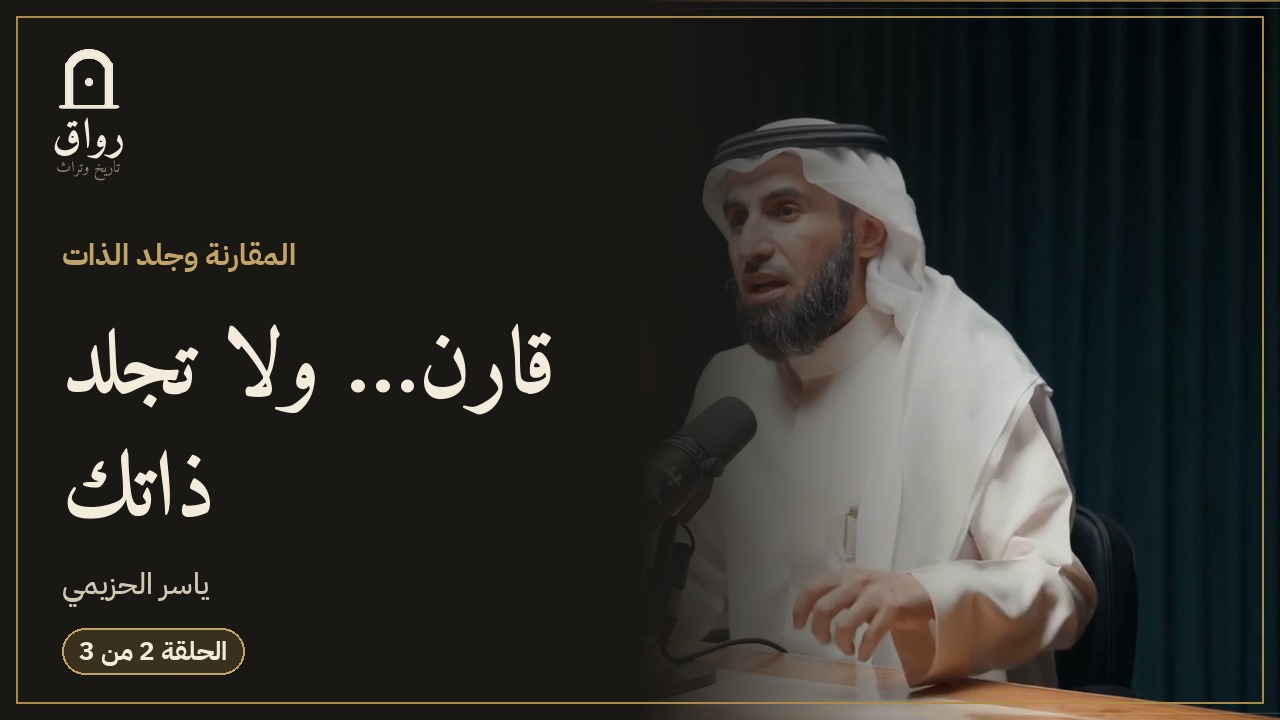
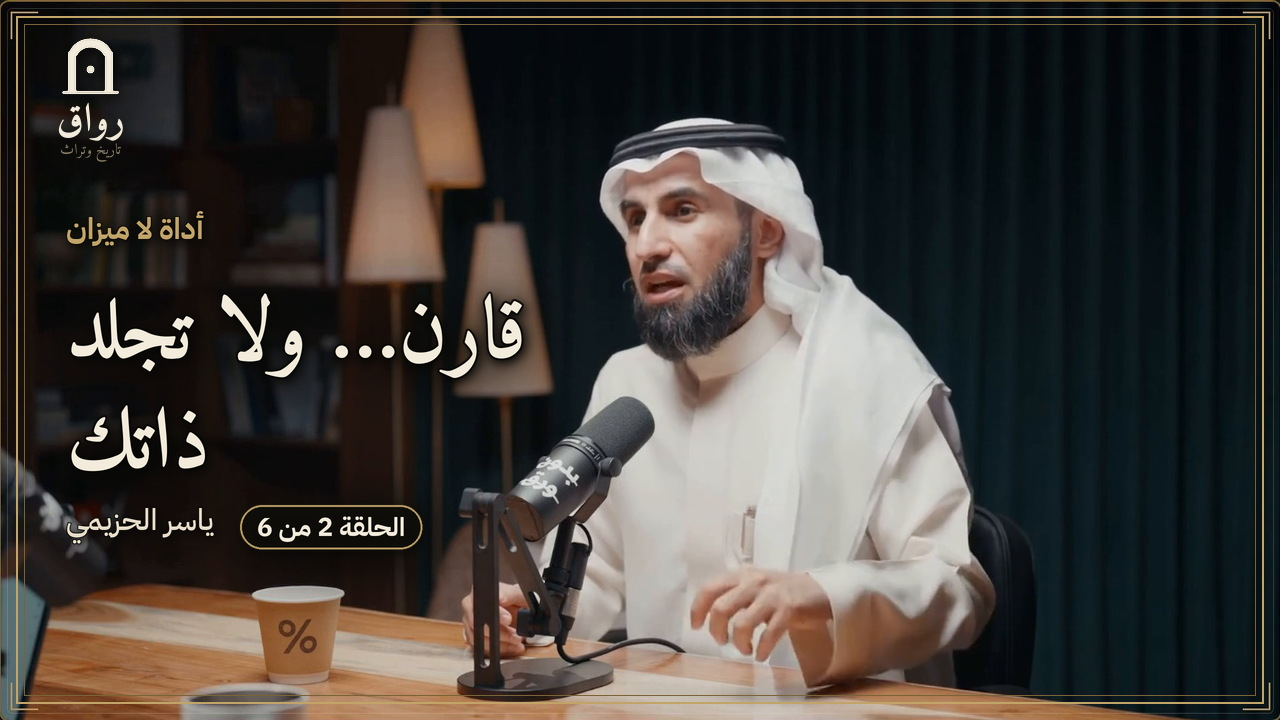
feat(covers): v2 full-bleed covers — no gradient panel, dynamic multi-layer text shadow, speaker-only frames

diff --git a/scripts/series/covers_v2.py b/scripts/series/covers_v2.py
@@ -1,0 +1,268 @@
+"""أغلفة v2 — صورة كاملة (full-bleed) بلا أي طبقة تعتيم أو تدرّج لوني.
+
+كل النصوص والشعار فوق الصورة مباشرة، وتُقرأ عبر ظل ديناميكي متعدّد الطبقات
+(ظل واسع ناعم + ظل قريب حاد + هالة ذهبية خفيفة)، فلا يوجد أي مستطيل أو شريط غامق.
+
+الاستخدام:
+    python3 scripts/series/covers_v2.py            # كل الحلقات 01–06
+    python3 scripts/series/covers_v2.py 03         # حلقة واحدة
+"""
+from __future__ import annotations
+
+import os
+import subprocess
+import sys
+
+sys.path.insert(0, os.path.dirname(__file__))
+
+import numpy as np  # noqa: E402
+import graphics as G  # noqa: E402
+from PIL import Image, ImageDraw, ImageFilter  # noqa: E402
+
+REPO = "/home/user/Riwaq_System_Repo"
+DRIVE = f"{REPO}/google_drive"
+OUT = f"{REPO}/outputs/SERIES_RIWAQ/covers_v2"
+FF = os.environ.get(
+    "FFMPEG", "/usr/local/lib/python3.11/dist-packages/imageio_ffmpeg/binaries/ffmpeg-linux-x86_64-v7.0.2")
+
+SHADOW = (6, 6, 5)
+
+
+# ----------------------------------------------------------------------------- لقطات
+def grab(master: str, t: float, out: str) -> Image.Image:
+    """لقطة من داخل إطار الفيديو فقط (بدون شريط الكابشن أو ترويسة القالب)."""
+    subprocess.run([FF, "-v", "error", "-copyts", "-ss", str(t), "-i", master,
+                    "-frames:v", "1", "-vf", "crop=1440:808:240:108",
+                    "-y", out], check=True)
+    return Image.open(out).convert("RGB")
+
+
+# ----------------------------------------------------------------------------- ظلال
+def _blur_mask(mask: Image.Image, radius: float, alpha: float) -> Image.Image:
+    m = mask.filter(ImageFilter.GaussianBlur(radius))
+    if alpha < 1.0:
+        m = m.point(lambda v: int(v * alpha))
+    return m
+
+
+def add_shadowed(canvas: Image.Image, layer: Image.Image,
+                 wide=(26, 0.86, (10, 14)), tight=(7, 0.80, (3, 5)),
+                 glow: tuple | None = None, core=(12, 0.62, (0, 2)),
+                 extra: list | None = None) -> None:
+    """يركّب طبقة RGBA بظل ديناميكي متعدّد الطبقات (بلا أي صندوق أو تعبئة)."""
+    a = layer.split()[3]
+    pad = 96
+    W, H = canvas.size
+
+    def place(mask_img: Image.Image, color, offset):
+        sh = Image.new("L", (W + 2 * pad, H + 2 * pad), 0)
+        sh.paste(mask_img, (pad + offset[0], pad + offset[1]))
+        rgba = Image.new("RGBA", sh.size, color + (0,))
+        rgba.putalpha(sh)
+        canvas.alpha_composite(rgba.crop((pad, pad, pad + W, pad + H)))
+
+    # طبقات إضافية واسعة جدًا = ظل محيط ناعم يفصل النص عن أي خلفية فاتحة
+    for radius, alpha, off in (extra or []):
+        place(_blur_mask(a, radius, alpha), SHADOW, off)
+    if glow:
+        g_radius, g_alpha, g_color = glow
+        place(_blur_mask(a, g_radius, g_alpha), g_color, (0, 0))
+    place(_blur_mask(a, wide[0], wide[1]), SHADOW, wide[2])
+    if core:
+        place(_blur_mask(a, core[0], core[1]), SHADOW, core[2])
+    place(_blur_mask(a, tight[0], tight[1]), SHADOW, tight[2])
+    canvas.alpha_composite(layer, (0, 0))
+
+
+def draw_ar_stroke(d, xy, s, fnt, fill, stroke=3, stroke_fill=(8, 7, 6, 225), anchor="la"):
+    """نص عربي بحدّ داكن رقيق + خطوة ظل — يقرأ فوق أي خلفية بلا أي صندوق."""
+    d.text(xy, G.ar(s), font=fnt, fill=stroke_fill, anchor=anchor,
+           stroke_width=stroke, stroke_fill=stroke_fill)
+    d.text(xy, G.ar(s), font=fnt, fill=fill, anchor=anchor)
+
+
+def text_layer(size: tuple[int, int], painter) -> Image.Image:
+    """يرسم نصًّا بدقة مضاعفة ثم يصغّره — حواف عربية ناعمة."""
+    ss = 2
+    big = Image.new("RGBA", (size[0] * ss, size[1] * ss), (0, 0, 0, 0))
+    d = ImageDraw.Draw(big)
+    painter(d, ss)
+    return big.resize(size, Image.LANCZOS)
+
+
+# ----------------------------------------------------------------------------- إطار الصورة
+def fill_frame(frame: Image.Image, W: int, H: int, focus: float = 0.5) -> Image.Image:
+    """يملأ الكادر كاملًا من نفس اللقطة (قصّ ذكي، بلا أي تعتيم)."""
+    scale = max(W / frame.width, H / frame.height)
+    f = frame.resize((int(frame.width * scale + 0.5), int(frame.height * scale + 0.5)),
+                     Image.LANCZOS)
+    left = int((f.width - W) * focus)
+    top = int((f.height - H) * 0.5)
+    return f.crop((left, top, left + W, top + H))
+
+
+def _vignette(img: Image.Image, strength: float = 0.16) -> Image.Image:
+    """توهين خفيف جدًا لأطراف الكادر فقط — لا يمسّ لون منتصف الصورة."""
+    W, H = img.size
+    y, x = np.mgrid[0:H, 0:W]
+    cx, cy = W / 2, H / 2
+    r = np.sqrt(((x - cx) / (W * 0.62)) ** 2 + ((y - cy) / (H * 0.62)) ** 2)
+    v = np.clip((r - 0.55) / 0.75, 0, 1) ** 1.6 * strength
+    arr = np.asarray(img).astype(np.float32) * (1 - v[..., None])
+    return Image.fromarray(arr.clip(0, 255).astype(np.uint8))
+
+
+# ----------------------------------------------------------------------------- الغلاف الأفقي
+SAFE_BOTTOM = 552      # آخر سطر في الكتلة النصية — فوق سطح الطاولة/الكوب
+SAFE_TOP = 206
+
+
+def cover_h(frame: Image.Image, lines: list[str], kicker: str, out: str,
+            name: str = "ياسر الحزيمي", badge: str | None = None,
+            focus: float = 0.5, max_w: int = 600) -> str:
+    W, H = 1280, 720
+    base = _vignette(fill_frame(frame, W, H, focus)).convert("RGBA")
+
+    # ------- الشعار (ظل واسع + ظل قريب + هالة ذهبية خفيفة)
+    lock = G.brand_lockup(112, color=G.PARCH)
+    logo_layer = Image.new("RGBA", (W, H), (0, 0, 0, 0))
+    logo_layer.alpha_composite(lock, (56, 34))
+    add_shadowed(base, logo_layer,
+                 wide=(18, 0.92, (8, 12)), tight=(5, 0.88, (2, 4)),
+                 glow=(16, 0.18, G.GOLD_L))
+
+    # ------- قياس الكتلة النصية: كيكر + عنوان + سطر توقيع واحد (اسم + شارة)
+    kick_px, name_px, badge_px, badge_h, row_h = 30, 30, 26, 44, 46
+    fixed = 54 + 26 + row_h                      # فاصل الكيكر + فاصل التوقيع + سطر التوقيع
+    avail = SAFE_BOTTOM - SAFE_TOP - fixed
+    fitted, total, px = [], 0, 92
+    while px > 44:
+        fitted, total = [], 0
+        for line in lines:
+            fnt = G.fit_font(G.AMIRI_B, line, max_w, px, 44)
+            fitted.append((line, fnt))
+            total += int(fnt.size * 1.28)
+        if total <= avail:
+            break
+        px -= 2
+    block_h = fixed + total
+    y_kick = SAFE_BOTTOM - block_h
+    y_title = y_kick + 54
+    y_row = y_title + total + 24
+    x0 = 66
+
+    def painter(d: ImageDraw.ImageDraw, ss: int) -> None:
+        draw_ar_stroke(d, (x0 * ss, y_kick * ss), kicker, G.font(G.PLEX_B, kick_px * ss),
+                       G.GOLD_L + (255,), stroke=1 * ss)
+        y = y_title
+        for line, fnt in fitted:
+            draw_ar_stroke(d, (x0 * ss, y * ss), line, G.font(G.AMIRI_B, fnt.size * ss),
+                           G.PARCH + (255,), stroke=2 * ss)
+            y += int(fnt.size * 1.28)
+        # سطر واحد: فاصل ذهبي + الاسم + الشارة
+        cy = y_row + row_h / 2
+        fn = G.font(G.PLEX_M, name_px * ss)
+        nm_w = G.text_w(fn, G.ar(name)) / ss
+        draw_ar_stroke(d, (x0 * ss, (cy + 3) * ss), name, fn,
+                       (232, 222, 202, 255), stroke=1 * ss, anchor="ls")
+        if badge:
+            fb = G.font(G.PLEX_B, badge_px * ss)
+            bx = x0 + nm_w + 26
+            bw = G.text_w(fb, G.ar(badge)) / ss + 34
+            d.rounded_rectangle([bx * ss, (cy - badge_h / 2) * ss,
+                                 (bx + bw) * ss, (cy + badge_h / 2) * ss],
+                                radius=22 * ss, fill=(16, 14, 10, 196),
+                                outline=G.GOLD_L + (232,), width=max(2, 2 * ss))
+            G.draw_ar(d, ((bx + 17) * ss, cy * ss), badge, fb,
+                      G.PARCH + (255,), anchor="lm")
+
+    add_shadowed(base, text_layer((W, H), painter),
+                 wide=(26, 1.0, (8, 11)), tight=(5, 1.0, (2, 3)),
+                 glow=(11, 0.10, G.GOLD), core=(16, 0.85, (0, 3)),
+                 extra=[(56, 0.40, (0, 6)), (34, 0.52, (0, 4))])
+
+    # ------- إطار ذهبي مزدوج رقيق (خطوط فقط، بلا أي تعبئة)
+    d = ImageDraw.Draw(base)
+    d.rectangle([16, 16, W - 17, H - 17], outline=G.GOLD_L + (225,), width=2)
+    d.rectangle([24, 24, W - 25, H - 25], outline=(122, 100, 55, 95), width=1)
+
+    base.convert("RGB").save(out, quality=93, subsampling=1)
+    return out
+
+
+# ----------------------------------------------------------------------------- الغلاف العمودي
+def cover_v(frame: Image.Image, lines: list[str], kicker: str, out: str,
+            name: str = "ياسر الحزيمي", focus: float = 0.62) -> str:
+    W, H = 1080, 1920
+    base = _vignette(_fill_v(frame, W, H, focus), 0.20).convert("RGBA")
+
+    lock = G.brand_lockup(146, color=G.PARCH)
+    logo_layer = Image.new("RGBA", (W, H), (0, 0, 0, 0))
+    logo_layer.alpha_composite(lock, (66, 72))
+    add_shadowed(base, logo_layer,
+                 wide=(22, 0.92, (8, 12)), tight=(6, 0.88, (2, 4)),
+                 glow=(18, 0.18, G.GOLD_L))
+
+    fitted, total = [], 0
+    for line in lines:
+        fnt = G.fit_font(G.AMIRI_B, line, W - 150, 124, 66)
+        fitted.append((line, fnt))
+        total += int(fnt.size * 1.26)
+    # الكتلة النصية أسفل الكادر — تحت الوجه دائمًا، وفوق منطقة آمنة من واجهة الشورت
+    y_kick = H - 436 - total
+    y_title = y_kick + 78
+    y_sig = y_title + total + 22
+
+    def painter(d: ImageDraw.ImageDraw, ss: int) -> None:
+        draw_ar_stroke(d, (66 * ss, y_kick * ss), kicker, G.font(G.PLEX_B, 42 * ss),
+                       G.GOLD_L + (255,), stroke=2 * ss)
+        y = y_title
+        for line, fnt in fitted:
+            draw_ar_stroke(d, (66 * ss, y * ss), line, G.font(G.AMIRI_B, fnt.size * ss),
+                           G.PARCH + (255,), stroke=3 * ss)
+            y += int(fnt.size * 1.26)
+        d.line([(66 * ss, (y_sig - 16) * ss), ((66 + 110) * ss, (y_sig - 16) * ss)],
+               fill=G.GOLD_L + (225,), width=3 * ss)
+        draw_ar_stroke(d, (66 * ss, y_sig * ss), name, G.font(G.PLEX_M, 40 * ss),
+                       (228, 218, 198, 255), stroke=2 * ss)
+
+    add_shadowed(base, text_layer((W, H), painter),
+                 wide=(34, 1.0, (9, 13)), tight=(6, 1.0, (2, 3)),
+                 glow=(16, 0.10, G.GOLD), core=(20, 0.95, (0, 4)),
+                 extra=[(72, 0.42, (0, 8)), (48, 0.55, (0, 6))])
+
+    d = ImageDraw.Draw(base)
+    d.rectangle([20, 20, W - 21, H - 21], outline=G.GOLD_L + (225,), width=3)
+    base.convert("RGB").save(out, quality=93, subsampling=1)
+    return out
+
+
+def _best_band_y(base: Image.Image, band_h: int, lo=0.34, hi=0.90,
+                 left=60, right=760) -> int:
+    """يختار أنسب شريط عمودي للنص: أقل سطوعًا وأقل ازدحامًا (بحث آلي داخل الكادر)."""
+    import numpy as np
+    g = np.asarray(base.convert("L").crop((left, 0, right, base.height))).astype(np.float32)
+    H = g.shape[0]
+    rows = g.mean(axis=1)
+    detail = np.abs(np.diff(g, axis=1)).mean(axis=1)      # مقدار التفاصيل/الازدحام
+    score = rows + detail * 1.6
+    k = np.ones(band_h) / band_h
+    smooth = np.convolve(score, k, mode="valid")
+    i0, i1 = int(H * lo), min(int(H * hi), H - band_h)
+    if i1 <= i0:
+        return int(H * lo)
+    best = i0 + int(np.argmin(smooth[i0:i1]))
+    return best
+
+
+def _fill_v(frame: Image.Image, W: int, H: int, focus: float) -> Image.Image:
+    """ملء عمودي كامل من نفس اللقطة — بلا أي شريط أو لون مضاف.
+
+    focus = موضع الشخص أفقيًا داخل الغلاف (0.30 يسارًا… 0.70 يمينًا).
+    """
+    scale = H / frame.height
+    f = frame.resize((int(frame.width * scale + 0.5), H), Image.LANCZOS)
+    face_x = f.width * 0.50
+    left = int(face_x - focus * W)
+    left = max(0, min(left, f.width - W))
+    return f.crop((left, 0, left + W, H))

diff --git a/scripts/series/gen_covers_v2.py b/scripts/series/gen_covers_v2.py
@@ -1,0 +1,63 @@
+"""مولّد أغلفة v2 لكل الحلقات: A/B أفقي (1280×720) + عمودي (1080×1920)."""
+from __future__ import annotations
+
+import os
+import sys
+
+sys.path.insert(0, os.path.dirname(__file__))
+
+import covers as C  # noqa: E402
+import covers_v2 as V  # noqa: E402
+
+REPO = "/home/user/Riwaq_System_Repo"
+DRIVE = f"{REPO}/google_drive"
+OUT = f"{REPO}/outputs/SERIES_RIWAQ/covers_v2"
+
+# key: (ملف الماستر, kicker, lines_a, lines_b, kicker_b, focus_a, focus_b)
+EPISODES = {
+    "01": ("الفيديو 01 — العلاقات أعمق من التواصل (ماستر).mp4", "بوصلة العلاقات",
+           ["العلاقات أعمق", "من التواصل"], ["لا تكفي المهارات", "لتبني علاقة"],
+           "مهارات لا تكفي", 0.5, 0.5),
+    "02": ("الفيديو 02 — المقارنة أداة لا معيار (ماستر).mp4", "المقارنة وجلد الذات",
+           ["المقارنة أداة", "لا معيار"], ["قارن… ولا تجلد", "ذاتك"],
+           "أداة لا ميزان", 0.5, 0.5),
+    "03": ("الفيديو 03 — النهايات في العلاقات (ماستر).mp4", "نهايات العلاقات",
+           ["كل خروج", "هو دخول"], ["لا تنهِ علاقة", "قبل أن تعرف"],
+           "لا تنهِ قبل أن تعرف", 0.5, 0.5),
+    "04": ("الفيديو 04 — الشيطان يجري مجرى الدم (ماستر).mp4", "العدو الخفي",
+           ["الشيطان في", "مجرى الدم"], ["لماذا يفرّق", "بين الزوجين؟"],
+           "مجرى الدم", 0.5, 0.5),
+    "05": ("الفيديو 05 — من يقود سيارتك؟ منظومة العلاقات (ماستر).mp4", "خريطة وسائق",
+           ["من يقود", "سيارتك؟"], ["خريطة…", "وسائق… ووجهة"],
+           "الوجهة أولًا", 0.5, 0.5),
+    "06": ("الفيديو 06 — الرأي ليس الحقيقة النقد بلا جرح (ماستر).mp4", "رأي أم حقيقة",
+           ["الرأي ليس", "الحقيقة"], ["«أنت لا تصلح", "لشيء»"],
+           "لا تُكسر", 0.5, 0.5),
+}
+
+# لحظات اللقطة لكل حلقة (نفس لحظات الأغلفة المسلَّمة سابقًا)
+FRAMES = {"01": (62, 150), "02": (20, 105), "03": (75, 45),
+          "04": (95, 120), "05": (40, 191), "06": (60, 240)}
+
+TOTAL = 6
+
+
+def build(key: str) -> None:
+    src, kicker, la, lb, kicker_b, fa, fb = EPISODES[key]
+    master = f"{DRIVE}/{src}"
+    d = f"{OUT}/{key}"
+    os.makedirs(d, exist_ok=True)
+    ta, tb = FRAMES[key]
+    ia = V.grab(master, ta, f"/tmp/{key}_va.png")
+    ib = V.grab(master, tb, f"/tmp/{key}_vb.png")
+    badge = f"الحلقة {int(key)} من {TOTAL}"
+    V.cover_h(ia, la, kicker, f"{d}/THUMB_A_1280x720.jpg", badge=badge, focus=fa)
+    V.cover_h(ib, lb, kicker_b, f"{d}/THUMB_B_1280x720.jpg", badge=badge, focus=fb)
+    V.cover_v(ia, la, kicker, f"{d}/COVER_1080x1920.jpg", focus=fa)
+    print("OK", key, sorted(os.listdir(d)))
+
+
+if __name__ == "__main__":
+    keys = sys.argv[1:] or list(EPISODES)
+    for k in keys:
+        build(k)

diff --git a/outputs/SERIES_RIWAQ/DELIVERY_INDEX.md b/outputs/SERIES_RIWAQ/DELIVERY_INDEX.md
@@ -48,3 +48,20 @@
 | مجلد الشورتات (يضم 01–09) | `1m4DG1uSvZbDmTSKi09GBfrb6QJLua4dG` |
 
 **قاعدة النشر:** العنوان A مع الغلاف A، والعنوان B مع الغلاف B — لا خلط. الترتيب: 01، 02 مع الفيديو 01 ← 03، 04، 05 مع الفيديو 02 ← 07، 08 مع الفيديو 03 ← 06 و09 كفواصل.
+
+---
+
+## ثالثًا: الأغلفة (تحديث v2 — صورة كاملة بلا تدرّج)
+
+الأغلفة السابقة كانت تضع نصف الكادر في مستطيل داكن متدرّج. النسخة الحالية **تملأ الكادر بالصورة كاملة من نفس اللقطة**، والنص والشعار يقفان فوق الصورة مباشرة بظل ديناميكي متعدّد الطبقات (ظل محيط واسع + ظل قريب + هالة ذهبية خفيفة) — لا صندوق ولا شريط ولا لون مضاف.
+
+| # | غلاف A (1280×720) | غلاف B (1280×720) | عمودي (1080×1920) |
+|---|---|---|---|
+| 01 | `1cnt0o50uqreA59rWe7sE-16sXQieU0P6` | `1oQguCufBTBGQ7N9BJKUKzDdD6Hp6YYZ1` | `1Hg9uJhmc-8yNE32_Klt-teJcaM206X-9` |
+| 02 | `16xJpPf9Dvvv956w3nQvvb2f1LWH4Vqm1` | `1yCCiQo0iA26RR5B33X1YcGvHmnQUCYOO` | `1flqBdx2quihNe812GHT74eS4Ayz61pt5` |
+| 03 | `19KazvGxjCvB7x72y9-U7GhP48X1Uk7vc` | `1U5AVfKrzagScDMoGmnIkVbR3SsG6lr3N` | `1hil0MEqg7bPaz-O1zEFsAgg3ohIxieT5` |
+| 04 | `1LeJJ4XiX9XZbWvqzMsSDgRqq8HAP7t3J` | `1VRWREvSjOCCDypjOju9eE7zOoXRqdldB` | `1TiKludsvinBgI3VOwPIoWLzkAYbeU6KI` |
+| 05 | `1_AzKcElR4O5lCp-1b-GsajmBNB6LvGbe` | `1K59XfiOaKLNeAC9S8edlX37-5ZZA7WSE` | `1Ol3PS0uE1kmqGkpS6m7NQG_XAki5CBuH` |
+| 06 | `1reDqW9tcq_ogWi7lXdPtZ_QfznG_XadL` | `12ExppeQ5OHepT2q4TSN4misYXDKhwcRt` | `1SXuRpuj1sk17vIy0Jlwgth3i9bzeuXck` |
+
+ورقة مقارنة كل الأغلفة: `covers_v2/ALL_COVERS_HORIZONTAL.png` و`covers_v2/ALL_COVERS_VERTICAL.png`، ومقارنة قبل/بعد: `covers_v2/BEFORE_AFTER_VERTICAL.png`.
